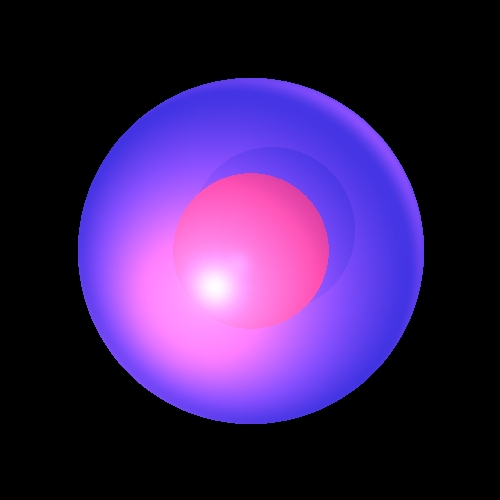
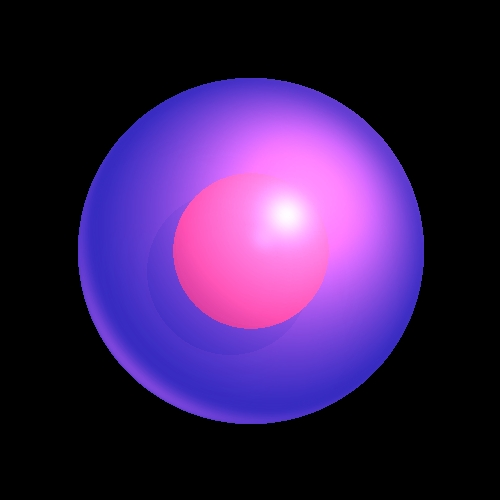
1

diff --git a/src/unittests/Project.java b/src/unittests/Project.java
@@ -5,6 +5,7 @@ import geometries.Cylinder;
 import geometries.Plane;
 import geometries.Sphere;
 import geometries.Triangle;
+import javafx.scene.PointLight;
 import org.junit.jupiter.api.Test;
 import org.junit.jupiter.api.TestTemplate;
 import primitives.*;
@@ -19,25 +20,30 @@ public class Project {
     void Project()
     {
         Scene scene = new Scene("pointLightTest");
-        scene.setCameraAndDistance(new Camera(new Point3D(),new vector(0,-1,0),scene.getCamera().getvTo()),scene.getScreenDistance());
-        Plane Plane = new Plane(new Color(0, 18, 0),new Point3D(0,1000,0),new vector(0,-1,1));
+        Plane Plane = new Plane(new Color(18, 62, 18),new Point3D(0,1000,0),new vector(0,-1,1));
 
-        Triangle triangle1=new Triangle(new Color(0,0,0),new Point3D(-1200,-400,-1400),new Point3D(1200,-400,-1400),new Point3D(0,-400,-200));
-        Triangle triangle2=new Triangle(new Color(0,0,0),new Point3D(-1200,-400,-1400),new Point3D(-600,400,-600),new Point3D(0,-400,-200));
-        Triangle triangle3=new Triangle(new Color(0,0,0),new Point3D(1200,-400,-1400),new Point3D(600,400,-600),new Point3D(0,-400,-200));
-        Triangle triangle4=new Triangle(new Color(0,0,0),new Point3D(-600,400,-600),new Point3D(600,400,-600),new Point3D(0,-400,-200));
+        Triangle triangle1=new Triangle(new Color(50,50,50),new Point3D(-2000,-400,-1400),new Point3D(2000,-400,-1400),new Point3D(0,-400,-200));
+        Triangle triangle2=new Triangle(new Color(50,50,50),new Point3D(-2000,-400,-1400),new Point3D(-800,400,-600),new Point3D(0,-400,-200));
+        Triangle triangle3=new Triangle(new Color(50,50,50),new Point3D(2000,-400,-1400),new Point3D(800,400,-600),new Point3D(0,-400,-200));
+        Triangle triangle4=new Triangle(new Color(50,50,50),new Point3D(-800,400,-600),new Point3D(800,400,-600),new Point3D(0,-400,-200));
 
         Sphere sphere1=new Sphere(new Color(0, 18, 0),100, new Point3D(0,0,-800));
-        Sphere sphere2=new Sphere(new Color(0, 0, 100),100, new Point3D(100,0,-600));
-        Sphere sphere3=new Sphere(new Color(0, 50, 50),200, new Point3D(-200,-200,-900));
-        Sphere sphere4=new Sphere(new Color(50,50,0),150,new Point3D(400,0,-800));
+        Sphere sphere2=new Sphere(new Color(0, 0, 100),100, new Point3D(200,0,-600));
+        Sphere sphere3=new Sphere(new Color(0, 50, 50),200, new Point3D(-300,-200,-900));
+        Sphere sphere4=new Sphere(new Color(114,61,141),150,new Point3D(400,0,-800));
+
+        Sphere sphere5=new Sphere(new Color(0,0,100),50,new Point3D(-800,-600,-400));
+        Sphere sphere6=new Sphere(new Color(100,0,0),50,new Point3D(800,-600,-400));
 
         triangle1.setMaterial(new Material(1,1,0,1.0,5));
         triangle2.setMaterial(new Material(1,1,0,1.0,5));
         triangle3.setMaterial(new Material(1,1,0,1.0,5));
         triangle4.setMaterial(new Material(1,1,0,1.0,5));
         Plane.setMaterial(new Material(1,1,1,0,1));
-        sphere1.setMaterial(new Material(1,1,0,1,20));
+
+        sphere5.setMaterial(new Material(1,1,0,1,10));
+        sphere6.setMaterial(new Material(1,1,0,1,10));
+
         sphere1.setnShininess(20);
         sphere2.setnShininess(20);
         sphere3.setnShininess(20);
@@ -52,8 +58,16 @@ public class Project {
         scene.addGeometry(triangle3);
         scene.addGeometry(triangle4);
         scene.addGeometry(Plane);
-        scene.addLight(new pointLight(new Color(50, 50,50), new Point3D(0 ,0,-800)
-                , 0, 0.000001, 0.0000005));
+        scene.addGeometry(sphere5);
+        scene.addGeometry(sphere6);
+        //scene.addLight(new pointLight(new Color(50, 50,50), new Point3D(-1000,0,-400)
+        //       , 0.01, 0.00001, 0.0000005));
+        pointLight light=new pointLight(new Color(250, 100,100), new Point3D(-800,-600,-400) , 0.01, 0.001, 0.00005);
+        pointLight light1=new pointLight(new Color(250, 100,100), new Point3D(800,-600,-400) , 0.01, 0.001, 0.00005);
+        //scene.addLight(light);
+        scene.addLight(new SphereLight(light,sphere5));
+        scene.addLight(new SphereLight(light1,sphere6));
+        scene.addLight(new pointLight(new Color(250,100,100),new Point3D(0,-1000,-600), 0.01, 0.001, 0.00005));
         scene.setAmbientLight(new AmbientLight(new Color(java.awt.Color.BLACK)));
         ImageWriter imageWriter = new ImageWriter( "Project", 500, 500, 500, 500);
 

diff --git a/src/elements/SphereLight.java b/src/elements/SphereLight.java
@@ -1,0 +1,51 @@
+package elements;
+
+import geometries.Sphere;
+import primitives.Color;
+import primitives.Material;
+import primitives.Point3D;
+import primitives.vector;
+
+public class SphereLight extends Light implements LightSource {
+
+    pointLight light;
+    Sphere sphere;
+    /********** Constructors ***********/
+
+    public SphereLight(pointLight light, Sphere sphere) {
+        super(light.getIntensity());
+        this.light = light;
+        this.sphere = sphere;
+        sphere.setMaterial(new Material(1, 1, 0, 1, 20));
+        this.light.setPosition(sphere.getCenter());
+    }
+
+    /*************** Admin *****************/
+
+    @Override
+    public Color getInternsity(Point3D point) {
+        if (point.distance(sphere.getCenter()) <= sphere.get_radius()) {
+            return light.getInternsity(point);
+        }
+        return light.getInternsity(point).add(sphere.getEmmission());
+    }
+
+    @Override
+    public vector getL(Point3D point) {
+        return light.getL(point);
+    }
+
+    @Override
+    public Color getIntensity() {
+        return new Color(0,0,0);
+    }
+
+    /************** Getters/Setters *******/
+    public pointLight getLight() {
+        return light;
+    }
+
+    public Sphere getSphere() {
+        return sphere;
+    }
+}

diff --git a/src/renderer/Render.java b/src/renderer/Render.java
@@ -2,10 +2,8 @@ package renderer;
 
 import elements.Light;
 import elements.LightSource;
-import geometries.FlatGeometry;
-import geometries.Geometries;
-import geometries.Geometry;
-import geometries.Intersectable;
+import elements.SphereLight;
+import geometries.*;
 import primitives.*;
 import scene.Scene;
 
@@ -168,7 +166,10 @@ public class Render {
     private Color calcDiffusiveComp(double kd, vector normal, vector l, Color internsity) {
         normal.normalize();
         l.normalize();
+
         double dotProduct=normal.dotProduct(l);
+        if(dotProduct>0)
+            return new Color(0,0,0);
      Color Diff;
      Diff=new Color(scaleColor(internsity,kd*dotProduct));//caculate the diffuse color
      return Diff;

diff --git a/src/geometries/Sphere.java b/src/geometries/Sphere.java
@@ -70,4 +70,17 @@ public class Sphere extends RadialGeometry {
             Intersections.add(ray.getP00());
         return Intersections;
     }
+
+    @Override
+    public boolean equals(Object o) {
+        if (this == o) return true;
+        if (!(o instanceof Sphere)) return false;
+        Sphere sphere = (Sphere) o;
+        return Objects.equals(center, sphere.center);
+    }
+
+    @Override
+    public int hashCode() {
+        return Objects.hash(center);
+    }
 }

diff --git a/src/elements/Camera.java b/src/elements/Camera.java
@@ -45,8 +45,8 @@ public class Camera {
     public Camera() {
         P0=new Point3D(0,0,0);
         vTo=new vector(0,0,-1);
-        vUp=new vector(1,0,0);
-        vRight=new vector(0,1,0);
+        vUp=new vector(0,-1,0);
+        vRight=new vector(-1,0,0);
     }
     /************** Operations ***************/
     public Ray constructRayThroughPixel(int Nx ,int Ny,double i,double j,double screenDistance,double screenWidth,double screenHeight) {

diff --git a/src/elements/pointLight.java b/src/elements/pointLight.java
@@ -18,7 +18,7 @@ public class pointLight extends Light implements LightSource{
     /*************** Admin *****************/
     @Override
     public Color getIntensity() {
-        return null;
+        return this.color;
     }
 
     @Override
